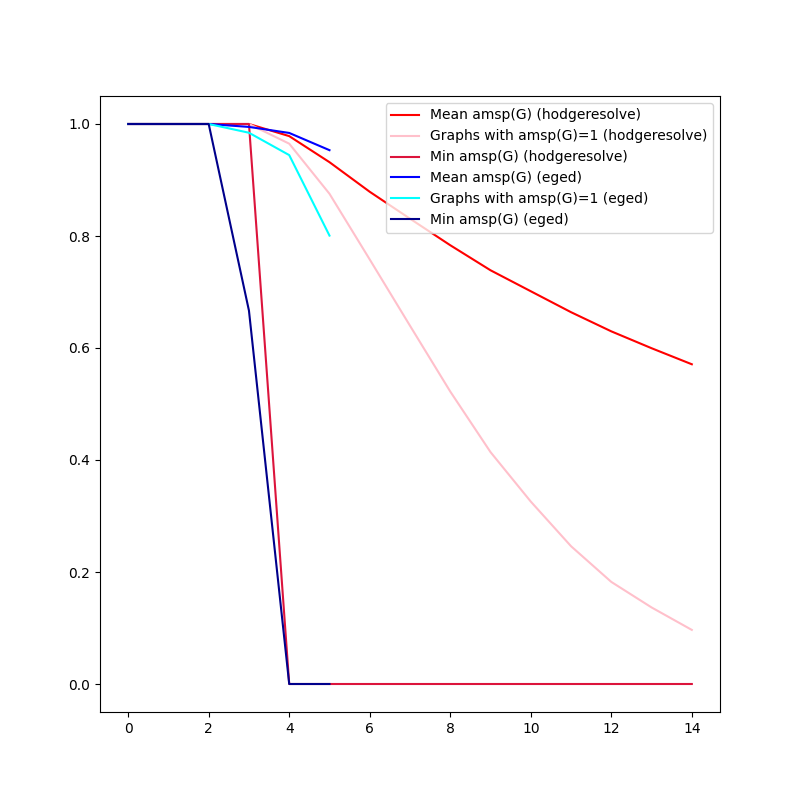
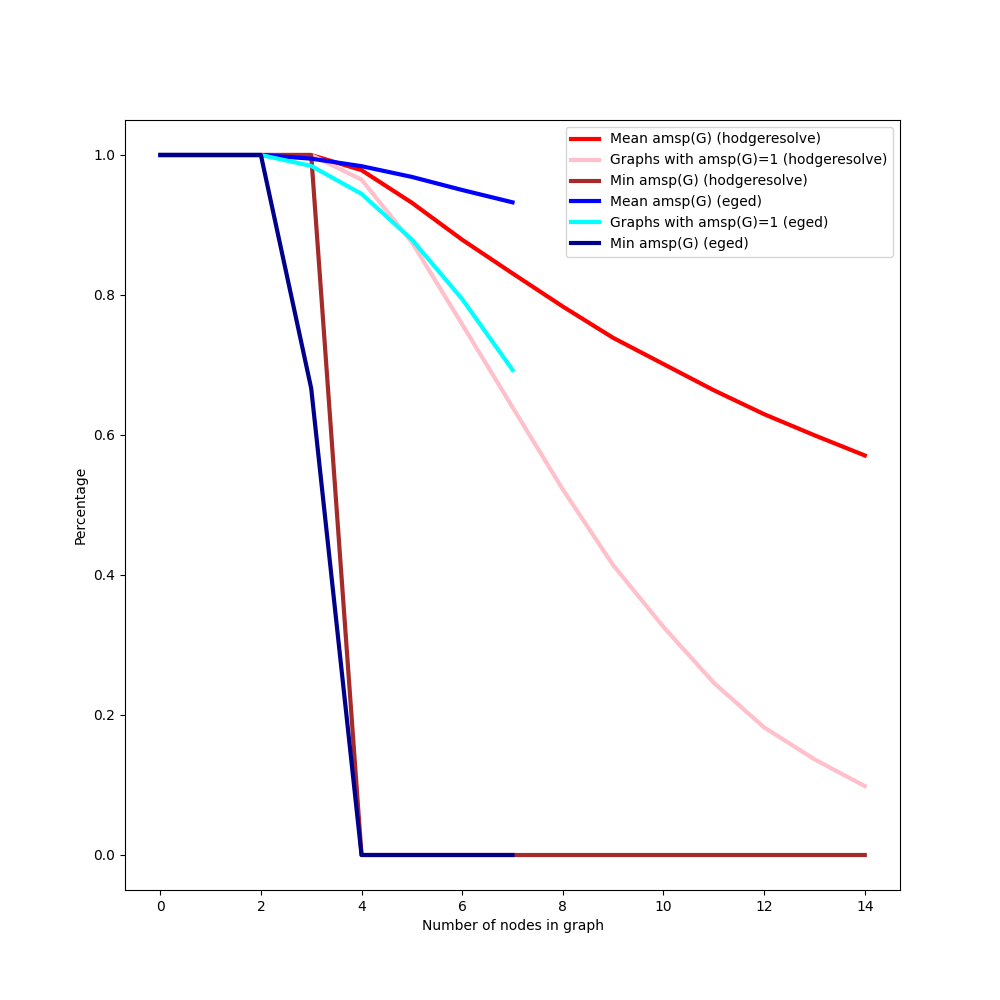
Data & images.

diff --git a/code/turning/draw_all.py b/code/turning/draw_all.py
@@ -10,23 +10,23 @@ preserves=df.loc[df[1]==1.0].groupby(0).count()[1]
 
 #plt.plot(summ[2]['mean'], color="green", label="Mean |imcs(G)|")
 
-plt.plot(summ[1]['mean'], color="red", label="Mean amsp(G) (hodgeresolve)")
-plt.plot(preserves/summ[1]['count'], color="pink", label="Graphs with amsp(G)=1 (hodgeresolve)")
-plt.plot(summ[1]['min'], color="crimson", label="Min amsp(G) (hodgeresolve)")
+plt.plot(summ[1]['mean'], color="red", label="Mean amsp(G) (hodgeresolve)", linewidth=3)
+plt.plot(preserves/summ[1]['count'], color="pink", label="Graphs with amsp(G)=1 (hodgeresolve)", linewidth=3)
+plt.plot(summ[1]['min'], color="brown", label="Min amsp(G) (hodgeresolve)", linewidth=3)
 
 df=pd.read_csv('./eged_preservations.csv', header=None)
 summ=df.groupby(0).describe()
 preserves=df.loc[df[1]==1.0].groupby(0).count()[1]
 
-plt.plot(summ[1]['mean'], color="blue", label="Mean amsp(G) (eged)")
-plt.plot(preserves/summ[1]['count'], color="cyan", label="Graphs with amsp(G)=1 (eged)")
-plt.plot(summ[1]['min'], color="darkblue", label="Min amsp(G) (eged)")
+plt.plot(summ[1]['mean'], color="blue", label="Mean amsp(G) (eged)", linewidth=3)
+plt.plot(preserves/summ[1]['count'], color="cyan", label="Graphs with amsp(G)=1 (eged)", linewidth=3)
+plt.plot(summ[1]['min'], color="darkblue", label="Min amsp(G) (eged)", linewidth=3)
 
 plt.legend()
 
-plt.set_xlabel('Number of nodes in graph')
-plt.set_ylabel('Percentage')
-plt.set_xticks()
+plt.xlabel('Number of nodes in graph')
+plt.ylabel('Percentage')
+plt.xticks()
 
 plt.savefig("preservations.png")
 

diff --git a/nootropics.md b/nootropics.md
@@ -526,6 +526,8 @@ It appears that only the α-1 wave (8-10Hz)
 is affected, with no influence on α-2 wave
 (11-13Hz).<sup>[\[4\]](https://examine.com/supplements/theanine/research/#ref-4)</sup>
 
+*Bill Willis, [“Theanine”](https://examine.com/supplements/theanine/research/), 2022*
+
 Although I'm confused about the increased α-waves in "otherwise healthy
 patients"‽
 
@@ -537,6 +539,8 @@ mild cognitive impairment based on MMSE scores, supplementation was
 associated with improved delayed recognition and immediate recall
 scores with no effect on verbal and visuospatial memory (Rey-Kim
 test).<sup>[\[17\]](https://examine.com/supplements/theanine/research/#ref-17)</sup>
+
+*Bill Willis, [“Theanine”](https://examine.com/supplements/theanine/research/), 2022*
 
 ### Experiment B: Self-Blinded RCT
 

diff --git a/data.md b/data.md
@@ -320,6 +320,13 @@ randomized future experiments (if I ever stop procrastinating on them).
 Tracking weight, mostly for exercise purposes. Data
 [here](./data/weights.csv), collected with [this script](./data/weight).
 
+### Daily Performance Metrics
+
+Productivity, creativity and the subjective length of the
+day. Collected with [this script](./data/mental) into [this
+file](./data/mental.csv). Started collecting subjective length of the
+day on 2023-08-21.
+
 ### Bag Spreading
 
 Data on bag spreading on public transport, in [this
